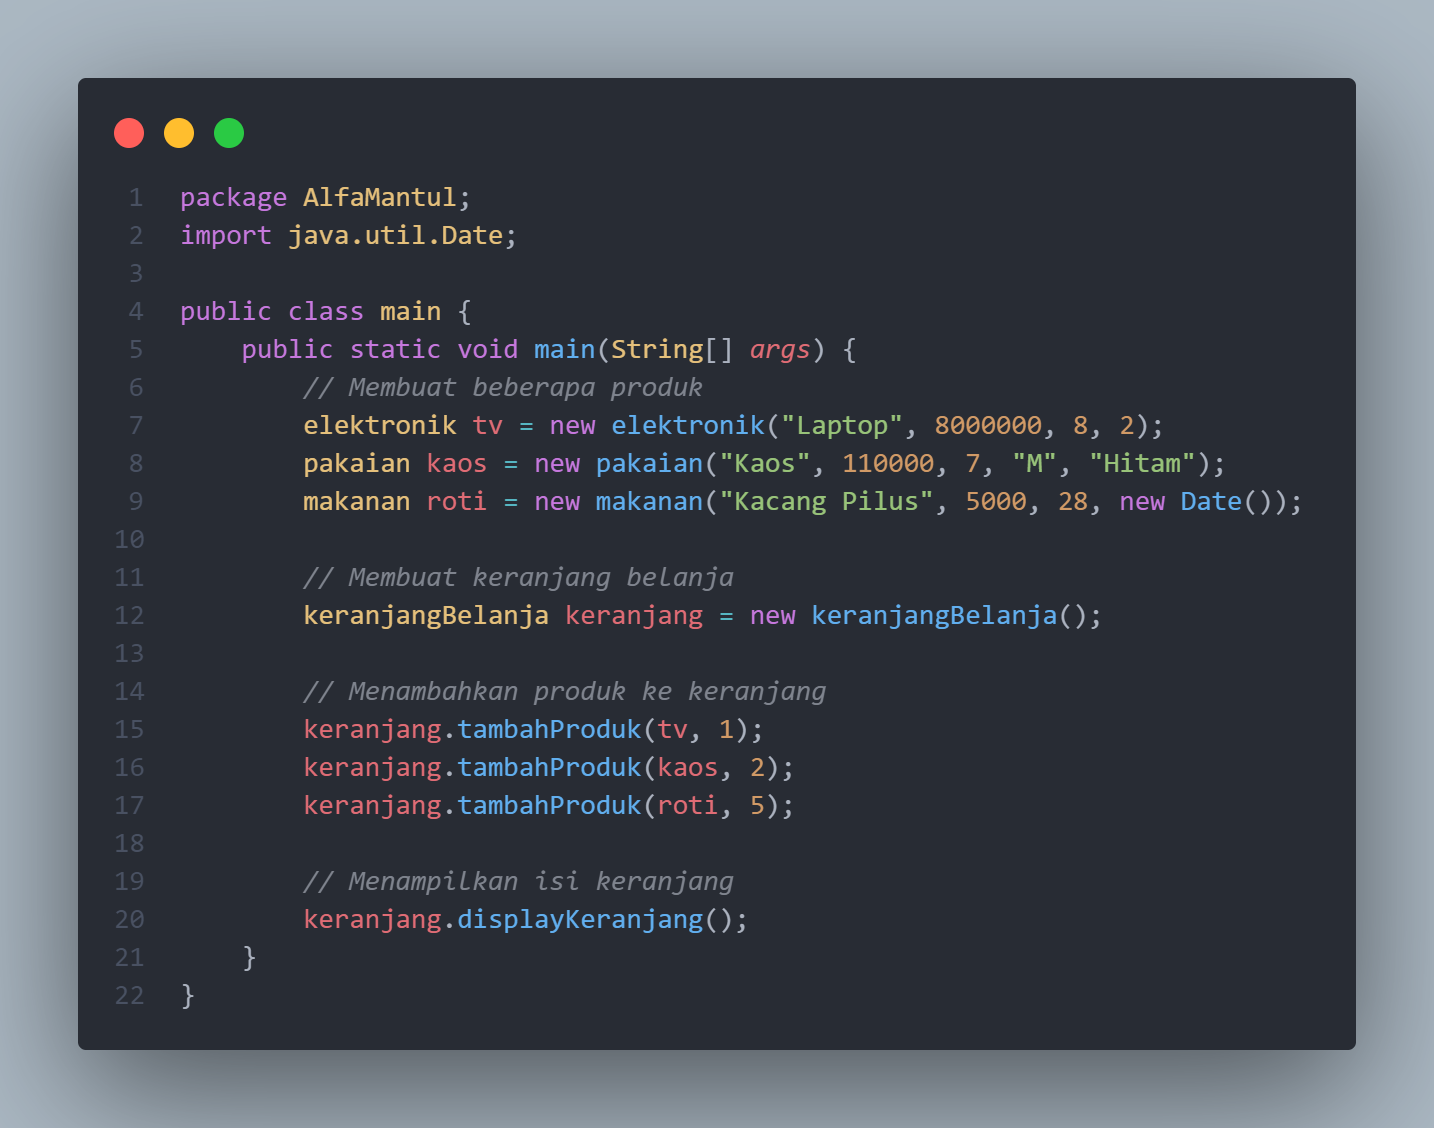
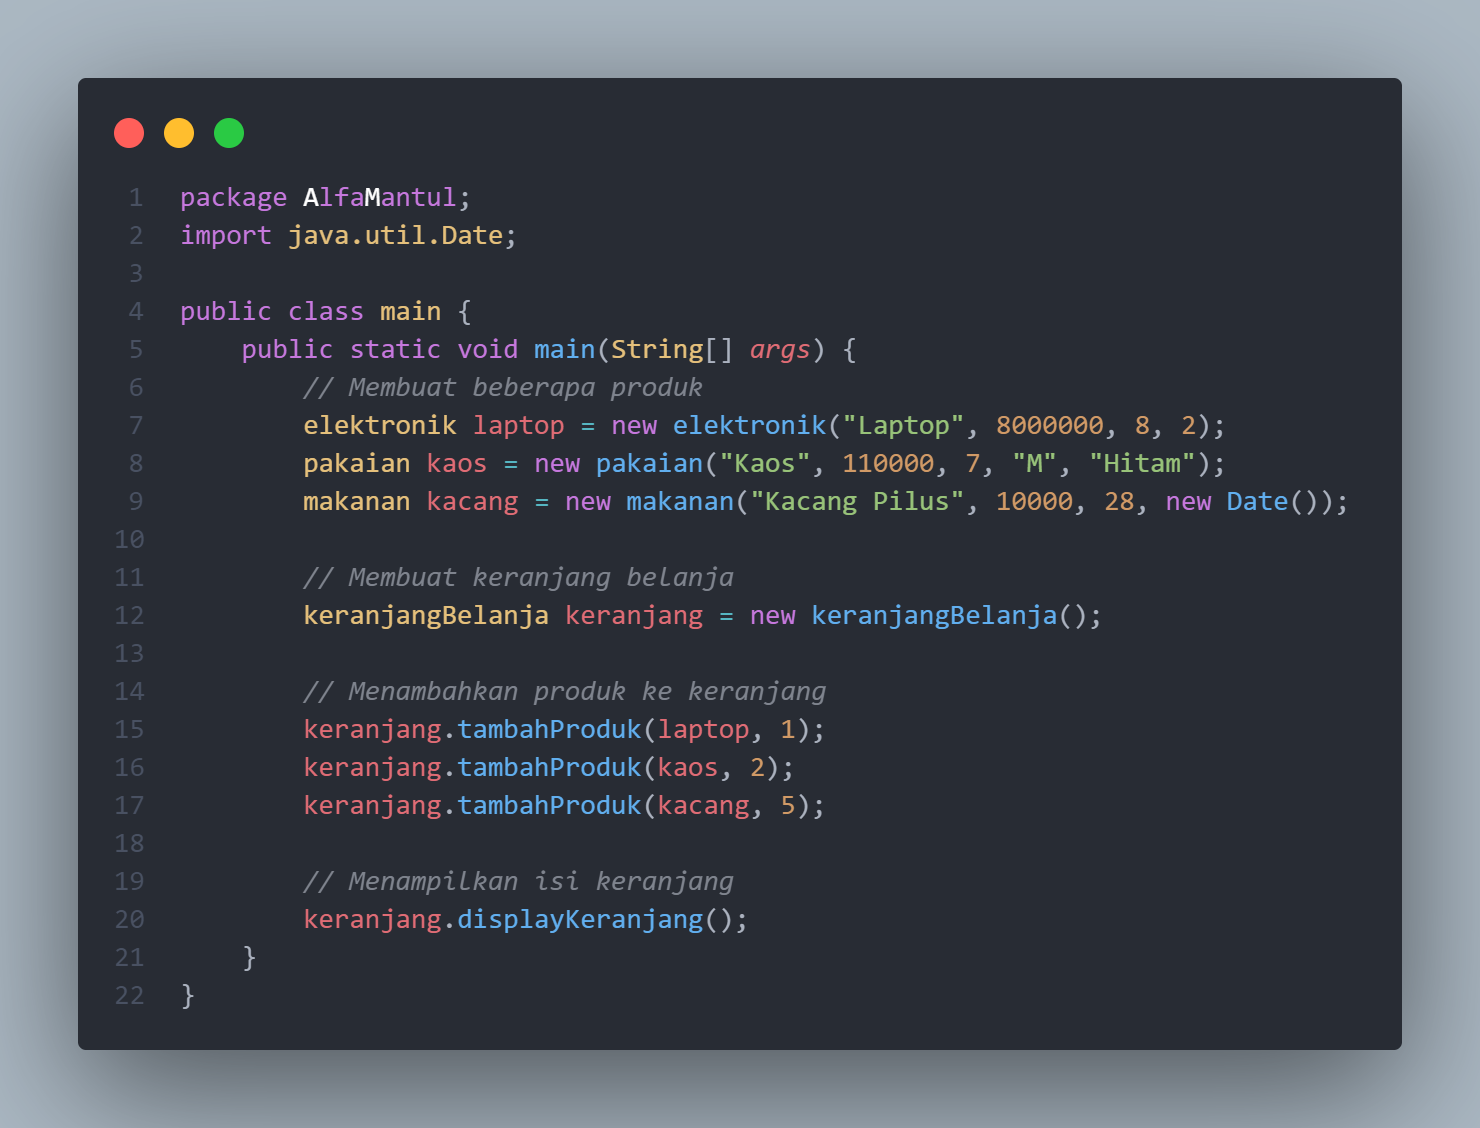
Add files via upload

diff --git a/P7/src/AlfaMantul/main.java b/P7/src/AlfaMantul/main.java
@@ -4,17 +4,17 @@ import java.util.Date;
 public class main {
     public static void main(String[] args) {
         // Membuat beberapa produk
-        elektronik tv = new elektronik("Laptop", 8000000, 8, 2);
+        elektronik laptop = new elektronik("Laptop", 8000000, 8, 2);
         pakaian kaos = new pakaian("Kaos", 110000, 7, "M", "Hitam");
-        makanan roti = new makanan("Kacang Pilus", 5000, 28, new Date());
+        makanan kacang = new makanan("Kacang Pilus", 10000, 28, new Date());
 
         // Membuat keranjang belanja
         keranjangBelanja keranjang = new keranjangBelanja();
 
         // Menambahkan produk ke keranjang
-        keranjang.tambahProduk(tv, 1);
+        keranjang.tambahProduk(laptop, 1);
         keranjang.tambahProduk(kaos, 2);
-        keranjang.tambahProduk(roti, 5);
+        keranjang.tambahProduk(kacang, 5);
 
         // Menampilkan isi keranjang
         keranjang.displayKeranjang();

diff --git a/P7/src/AlfaMantul/Produk.java b/P7/src/AlfaMantul/Produk.java
@@ -31,7 +31,7 @@ public class Produk {
     }
 
     public void displayInfo(){
-        System.out.println("Toko Indo April");
+        System.out.println("Toko Alfa Mantul");
         System.out.println("Nama Produk : " + namaProduk);
         System.out.println("Harga Produk : " + harga);
         System.out.println("Jumlah Stok : " + jumlahStok);
